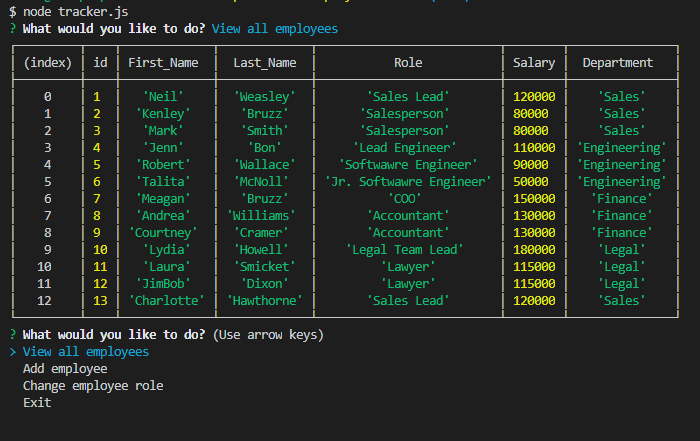
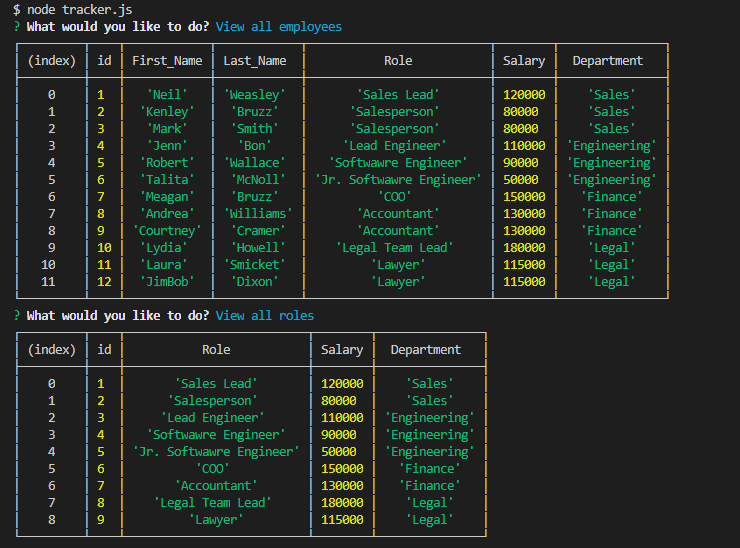
updated video link on README and updated the photo in the assets folder

Changed region(s): [[0.0, 0.0, 0.96, 1.0], [0.96, 0.1769, 0.99, 0.2063], [0.69, 0.7075, 0.72, 0.737]]

diff --git a/README.md b/README.md
@@ -14,6 +14,6 @@ This application requires you to download the Inquirer and My SQL npm packages. 
 ## Screenshot
 Click on the screenshot for a video running through the code in the terminal:
 
-<a href="https://drive.google.com/file/d/10QmYa8Vla_tCaUkqnkU6eT2X6gMtxJCk/preview
+<a href="https://drive.google.com/file/d/1aFBP2p_bAm4eYNDpt5uB1Nf9WqG_1T4A/preview
 " target="_blank"><img src="./assets/terminal_screenshot.PNG" 
 alt="Example Runthrough" width="700"/></a>
